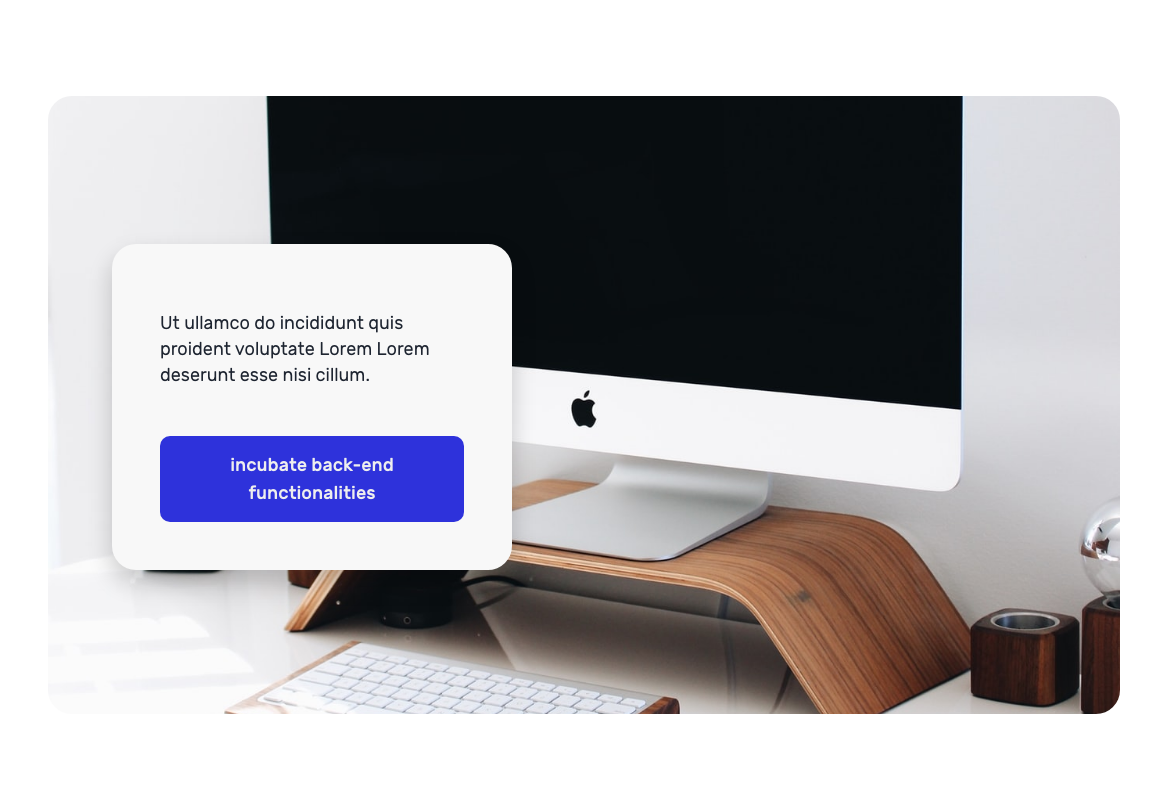
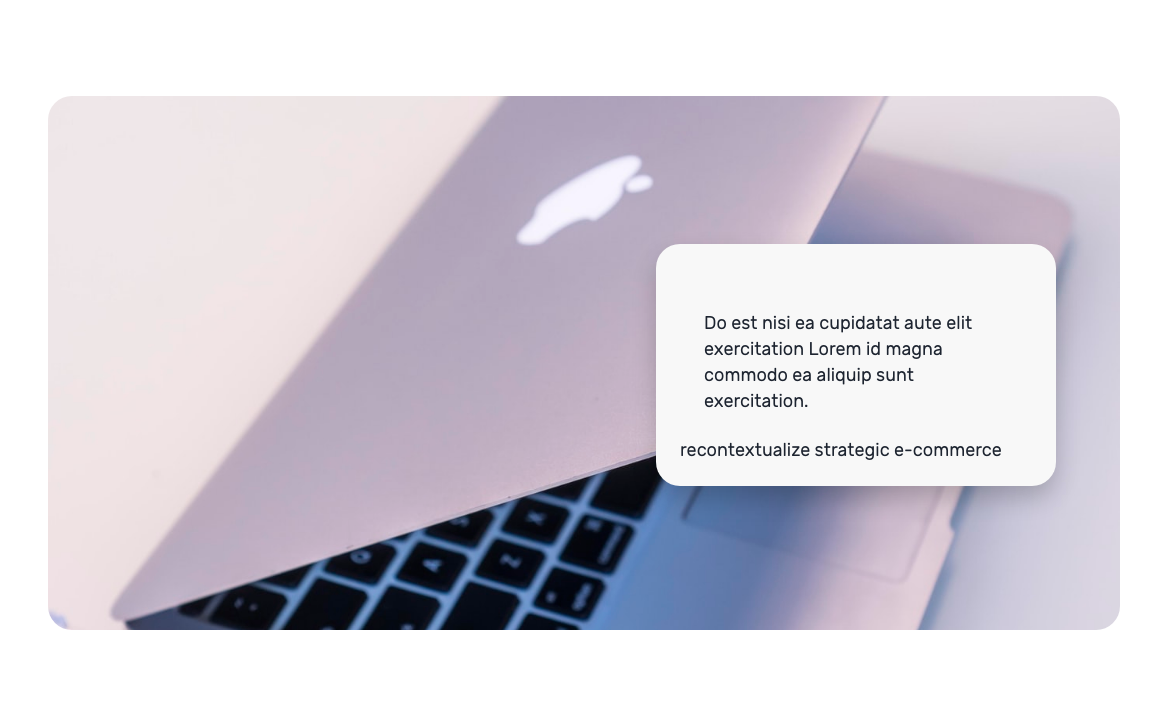
Allowing second button and paragraphs on the full width section

diff --git a/src/organisms/text-content/TextContent.tsx b/src/organisms/text-content/TextContent.tsx
@@ -13,6 +13,8 @@ export interface TextContentProps {
   description?: RichTextBlock[];
   link?: Link;
   linkLabel?: string;
+  secondaryLink?: Link;
+  secondaryLinkLabel?: string;
   padding?: "small" | "medium" | "large" | "none";
   background?: string;
   asCard?: boolean;
@@ -25,6 +27,8 @@ const TextContent: React.FC<TextContentProps> = ({
   description,
   link,
   linkLabel,
+  secondaryLink,
+  secondaryLinkLabel,
   asCard = false,
   padding = "none",
   background,
@@ -85,8 +89,10 @@ const TextContent: React.FC<TextContentProps> = ({
         <RichTextParser body={description} />
       </CardBody>
     )}
-    {link && linkLabel && (
+    {((link && linkLabel) || (secondaryLinkLabel && secondaryLink)) && (
       <CardFooter
+        direction={"column"}
+        align={"start"}
         pad={{
           top: "none",
           bottom: asCard ? padding : "none",
@@ -94,15 +100,29 @@ const TextContent: React.FC<TextContentProps> = ({
           right: asCard ? padding : "none",
         }}
       >
-        <Button
-          primary
-          color={colorPalette.blue}
-          size={ButtonSizes.large}
-          type="button"
-          label={linkLabel}
-          link={link}
-          margin={{ top: "medium" }}
-        />
+        <Box direction={"column"} align={"stretch"}>
+          {linkLabel && link && (
+            <Button
+              primary
+              color={colorPalette.blue}
+              size={ButtonSizes.large}
+              type="button"
+              label={linkLabel}
+              link={link}
+            />
+          )}
+          {secondaryLinkLabel && secondaryLink && (
+            <Button
+              primary
+              color={colorPalette.blue}
+              size={ButtonSizes.large}
+              type="button"
+              label={secondaryLinkLabel}
+              link={secondaryLink}
+              margin={{ top: "small" }}
+            />
+          )}
+        </Box>
       </CardFooter>
     )}
   </StyledCard>
